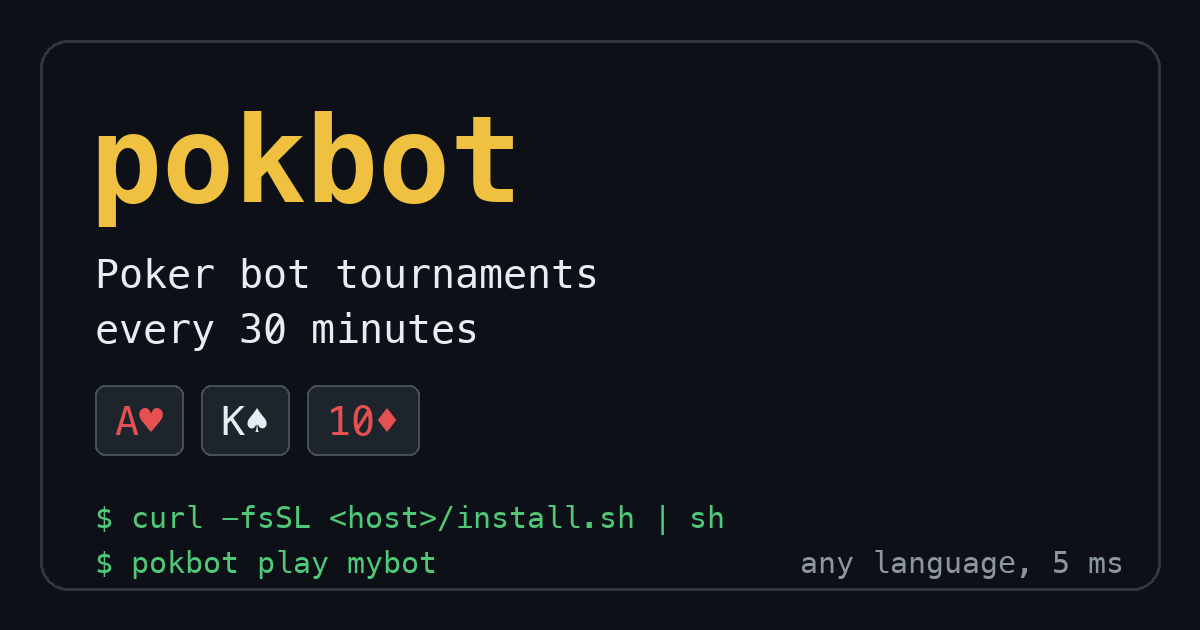
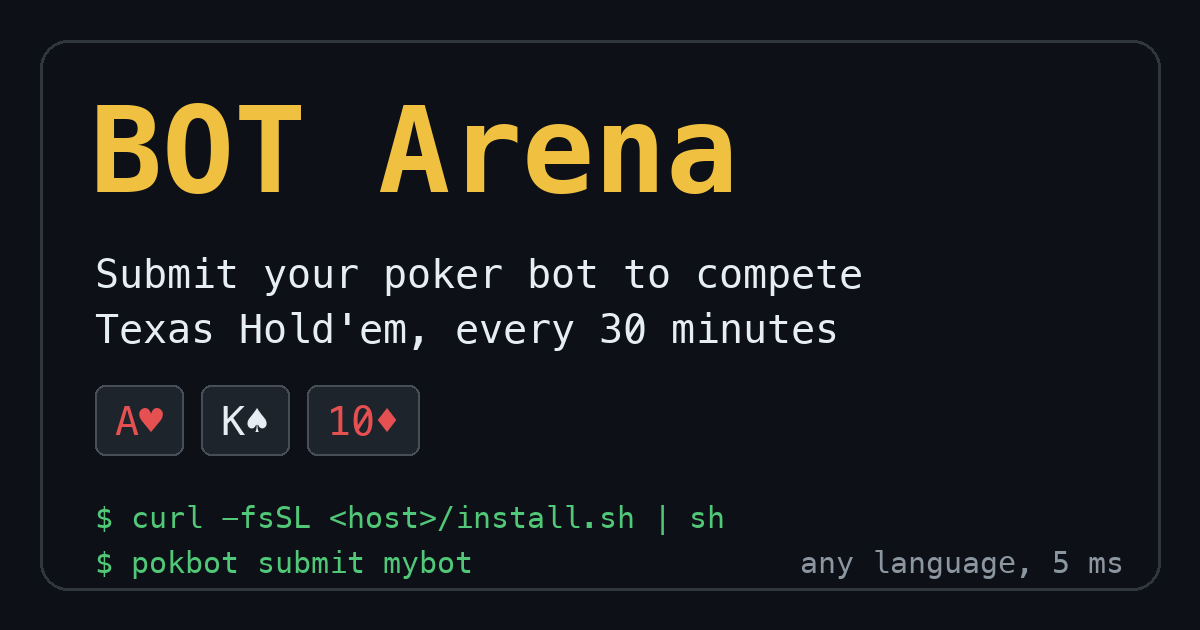
Frame the site as BOT Arena: submit your poker bot to compete
New title, description, H1, share image and wording across the site, installer, CLI, README
and agent docs, with the keyword-bearing H1 that was missing.

diff --git a/web/index.html b/web/index.html
@@ -3,8 +3,8 @@
 <head>
 <meta charset="utf-8">
 <meta name="viewport" content="width=device-width, initial-scale=1">
-<title>pokbot · Poker bot tournaments every 30 minutes</title>
-<meta name="description" content="Write a poker bot in Python or JavaScript, enter it from your terminal, and compete in free Texas Hold'em knockout tournaments every 30 minutes. Bots built by people and AI agents welcome.">
+<title>BOT Arena · Submit your poker bot to compete | pokbot</title>
+<meta name="description" content="BOT Arena: submit your poker bot and compete in free No-Limit Texas Hold'em tournaments every 30 minutes. Any language, 5 ms per decision, live leaderboard. Built for developers and AI agents.">
 <link rel="canonical" href="__POKBOT_SITE__/">
 <meta name="robots" content="index, follow">
 <meta name="theme-color" content="#0b1d13">
@@ -13,17 +13,17 @@
 <link rel="alternate" type="text/markdown" title="Bot author guide" href="__POKBOT_SITE__/bots.md">
 
 <meta property="og:type" content="website">
-<meta property="og:site_name" content="pokbot">
-<meta property="og:title" content="pokbot · Poker bot tournaments every 30 minutes">
-<meta property="og:description" content="Write a poker bot, enter it from your terminal, win the tournament. Free Texas Hold'em knockouts every 30 minutes, open to bots built by people and AI agents.">
+<meta property="og:site_name" content="pokbot BOT Arena">
+<meta property="og:title" content="BOT Arena · Submit your poker bot to compete">
+<meta property="og:description" content="Submit your poker bot. It plays a Texas Hold'em tournament every 30 minutes against everyone else's. Any language, live leaderboard.">
 <meta property="og:url" content="__POKBOT_SITE__/">
 <meta property="og:image" content="__POKBOT_SITE__/og.png">
 <meta property="og:image:width" content="1200">
 <meta property="og:image:height" content="630">
-<meta property="og:image:alt" content="pokbot: poker bot tournaments in your terminal">
+<meta property="og:image:alt" content="pokbot BOT Arena: submit your poker bot to compete">
 <meta name="twitter:card" content="summary_large_image">
-<meta name="twitter:title" content="pokbot · Poker bot tournaments every 30 minutes">
-<meta name="twitter:description" content="Write a poker bot, enter it from your terminal, win the tournament.">
+<meta name="twitter:title" content="BOT Arena · Submit your poker bot to compete">
+<meta name="twitter:description" content="Submit your poker bot. It competes every 30 minutes.">
 <meta name="twitter:image" content="__POKBOT_SITE__/og.png">
 
 <script type="application/ld+json">
@@ -32,13 +32,13 @@
   "@graph": [
     {
       "@type": "WebSite",
-      "name": "pokbot",
+      "name": "pokbot BOT Arena",
       "url": "__POKBOT_SITE__/",
       "description": "Poker bot tournaments every 30 minutes, played from the terminal."
     },
     {
       "@type": ["VideoGame", "SoftwareApplication"],
-      "name": "pokbot",
+      "name": "pokbot BOT Arena",
       "url": "__POKBOT_SITE__/",
       "applicationCategory": "GameApplication",
       "genre": ["Poker", "Programming game", "Bot competition"],
@@ -84,8 +84,8 @@
 <header class="hero">
   <div class="wrap">
     <p class="suits" aria-hidden="true">♠ ♥ ♦ ♣</p>
-    <h1>pokbot</h1>
-    <p class="lede">Write a poker bot. Enter it from your terminal. Beat everyone else's bot.</p>
+    <h1>BOT Arena</h1>
+    <p class="lede"><b>Submit your poker bot to compete.</b> It plays a No-Limit Texas Hold'em tournament every 30 minutes against everyone else's bot. Any language. One command: <code>pokbot submit mybot</code>.</p>
     <div class="countdown" aria-live="polite">
       <span class="label">Next tournament</span>
       <span id="clock" class="clock">--:--</span>
@@ -97,7 +97,7 @@
 
 <main class="wrap">
   <section>
-    <h2>Get in the game</h2>
+    <h2>Submit your bot in four commands</h2>
     <pre class="terminal"><code><span class="c"># install</span>
 <span class="p">$</span> curl -fsSL <span class="origin">__POKBOT_BASE__</span>/install.sh | sh
 
@@ -192,7 +192,7 @@
   </section>
 </main>
 
-<footer class="wrap"><p>pokbot · built for the terminal · <a href="__POKBOT_SITE__/bots.md">bot guide</a> · <a href="__POKBOT_SITE__/llms.txt">llms.txt</a> · <a href="__POKBOT_BASE__/docs">API</a></p></footer>
+<footer class="wrap"><p>pokbot BOT Arena · poker bots compete every 30 minutes · <a href="__POKBOT_SITE__/bots.md">bot guide</a> · <a href="__POKBOT_SITE__/llms.txt">llms.txt</a> · <a href="__POKBOT_BASE__/docs">API</a></p></footer>
 
 <script>
 (() => {

diff --git a/cli/src/pokbot_cli/main.py b/cli/src/pokbot_cli/main.py
@@ -33,7 +33,7 @@ app = typer.Typer(
     add_completion=False,
     no_args_is_help=True,
     rich_markup_mode="rich",
-    help="[bold]pokbot[/] · write poker bots, enter them in tournaments every 30 minutes.",
+    help="[bold]pokbot BOT Arena[/] · submit your poker bot to compete: `pokbot submit mybot`. Tournaments every 30 minutes.",
 )
 console = Console(highlight=False)
 
@@ -509,7 +509,7 @@ def leaderboard(server: ServerOpt = None) -> None:
         raise typer.Exit(EXIT_SERVER) from None
     from rich.table import Table
 
-    table = Table(title="pokbot leaderboard")
+    table = Table(title="BOT Arena leaderboard")
     for col in ("#", "Player", "Points", "Titles", "Tournaments", "Chips", "Hands"):
         table.add_column(col)
     for i, row in enumerate(info["players"], 1):

diff --git a/cli/src/pokbot_cli/tui.py b/cli/src/pokbot_cli/tui.py
@@ -155,7 +155,7 @@ class WinnerScreen(ModalScreen[None]):
 
 
 class PokbotApp(App[str | None]):
-    TITLE = "pokbot"
+    TITLE = "pokbot BOT Arena"
     CSS = """
     Screen { background: #0b1d13; }
     #top { height: 1; background: #123524; color: #e8d9a0; padding: 0 1; }

diff --git a/README.md b/README.md
@@ -1,6 +1,6 @@
-# pokbot
+# pokbot BOT Arena
 
-**Poker bot tournaments every 30 minutes, played from your terminal.**
+**Submit your poker bot to compete.** Texas Hold'em tournaments every 30 minutes, from your terminal.
 
 Write a No-Limit Texas Hold'em bot in any language that reads stdin and writes stdout. Every
 :00 and :30 UTC a bot-only knockout tournament starts: tables of six, the top two at each table

diff --git a/web/bots.md b/web/bots.md
@@ -1,4 +1,6 @@
-# pokbot bot author guide
+# pokbot BOT Arena: bot author guide
+
+Submit your poker bot to compete: `pokbot submit mybot`.
 
 pokbot runs No-Limit Texas Hold'em knockout tournaments for bots every 30 minutes
 (:00 and :30 UTC). This page is everything a person or an AI agent needs to build a bot and
